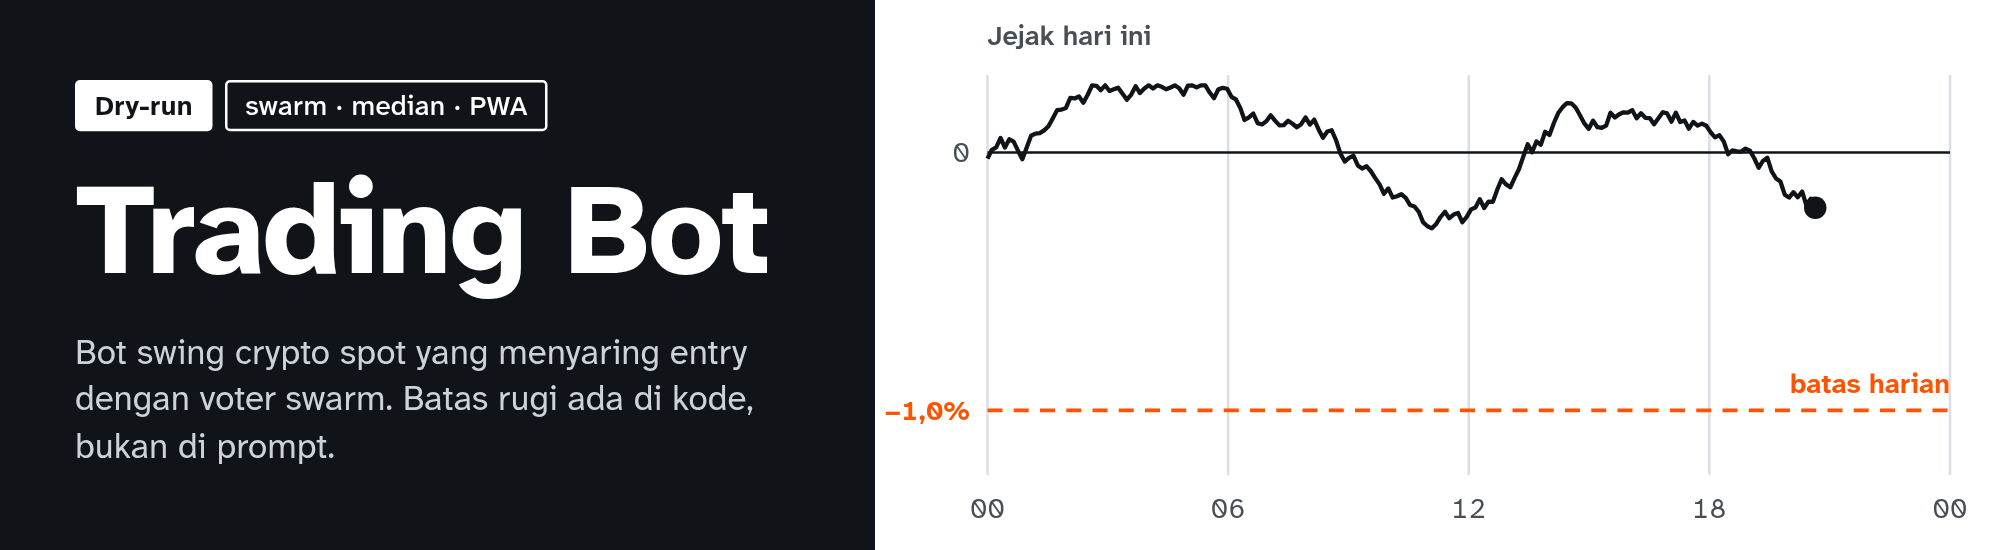
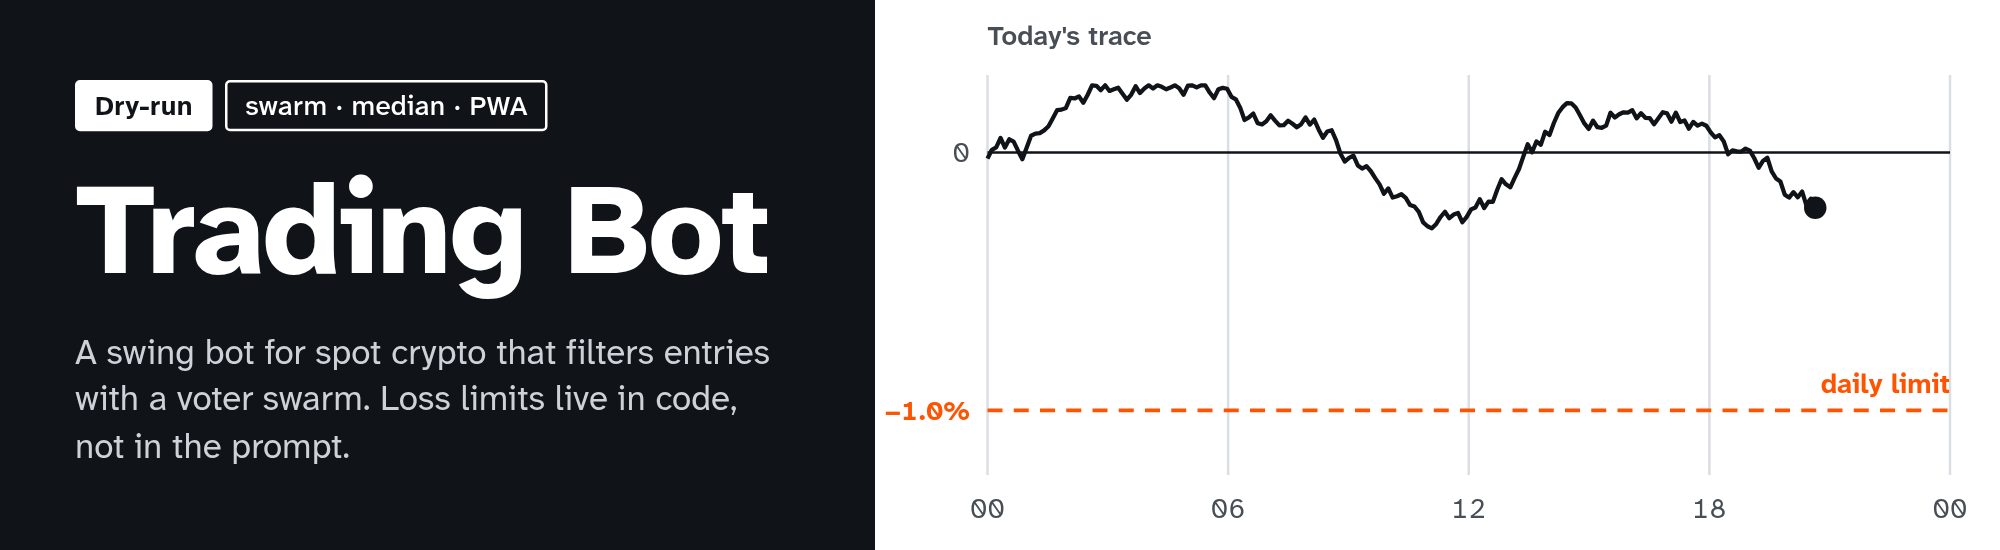
docs: switch README to English and refresh screenshots
The app default language is English, so the screenshots now show the English UI and the banner text is English. Media files are renamed to English names.

diff --git a/README.md b/README.md
@@ -1,74 +1,75 @@
-<p align="center"><img src="docs/media/banner.png" alt="Trading Bot: bot swing crypto spot dengan swarm voter, median, dan panel PWA" width="100%"></p>
+<p align="center"><img src="docs/media/banner.png" alt="Trading Bot: a spot crypto swing bot with a voter swarm, median aggregation and a PWA control panel" width="100%"></p>
 
 <p align="center">
   <img alt="Mode" src="https://img.shields.io/badge/mode-dry--run-1c1f26">
   <img alt="Engine" src="https://img.shields.io/badge/engine-Freqtrade%202026.9-1c1f26">
   <img alt="Python" src="https://img.shields.io/badge/python-3.12%2B-1c1f26">
   <img alt="PWA" src="https://img.shields.io/badge/panel-PWA%20(Svelte)-1c1f26">
-  <img alt="Lisensi" src="https://img.shields.io/badge/lisensi-GPL--3.0-1c1f26">
+  <img alt="License" src="https://img.shields.io/badge/license-GPL--3.0-1c1f26">
 </p>
 
-Bot trading crypto spot yang berjalan 24 jam di PC sendiri, dengan panel kontrol PWA untuk ponsel dan desktop. Strategi aturan swing 1 jam membuat kandidat entry; **swarm** voter (banyak model, satu pertanyaan, hasil digabung dengan **median**) hanya boleh menyaring; batas rugi dan ukuran posisi dijaga **kode**, bukan prompt. English summary: an always-on spot crypto swing bot on Freqtrade, with an LLM voter swarm as an entry filter only, hard risk limits enforced in code, and a PWA control panel. Dry-run only.
+An always-on spot crypto swing bot that runs on your own PC, with a PWA control panel for phone and desktop. A rule-based 1-hour swing strategy proposes entries. A **swarm** of voters (many models, one typed question, answers combined with the **median**) may only filter them. Loss limits and position sizing are enforced by **code**, not by prompts.
 
-> **Status jujur.** Proyek ini belum terbukti menghasilkan uang. Semuanya berjalan dry-run: tidak ada akun exchange, tidak ada key exchange, tidak ada uang sungguhan, dan mode live sengaja tidak bisa menyala di build ini. Backtest 3 tahun pada data Indodax setelah fee 0,2% dan pajak 0,21% per sisi memberi ekspektasi **negatif**: out-of-sample −0,832% per trade (221 trade, CI 95% −1,098% sampai −0,561%). Rinciannya di [docs/stage2-backtest.md](docs/stage2-backtest.md). Bukan nasihat keuangan.
+> **Honest status.** This project has not been shown to make money. Everything runs in dry-run: no exchange account, no exchange keys, no real funds, and live mode is deliberately unable to start in this build. A 3-year backtest on Indodax data, after a 0.2% fee and 0.21% tax per side, gives a **negative** expectancy: out-of-sample -0.832% per trade (221 trades, 95% CI -1.098% to -0.561%). Details in [docs/stage2-backtest.md](docs/stage2-backtest.md). Not financial advice.
 
-## Tampilan
+## Screens
 
-Layar di bawah dari gateway tiruan berdata contoh (penanda "contoh data" tampil di panel), bukan dari lari bot sungguhan.
+The screens below come from the PWA running against a mock gateway with sample data (the panel shows a "sample data" badge), not from a live bot run.
 
 <p align="center">
-  <img src="docs/media/phone-ringkas.png" alt="Ringkas di ponsel: keadaan Aman, jejak rugi hari ini terhadap batas harian, posisi terbuka" width="30%">
-  <img src="docs/media/phone-grafik.png" alt="Grafik kandel per pair dengan penanda entry dan batas" width="30%">
-  <img src="docs/media/phone-kontrol.png" alt="Kontrol: hentikan entry baru, exit paksa, dengan konfirmasi dua langkah" width="30%">
+  <img src="docs/media/phone-summary.png" alt="Summary on a phone: state Safe, today's loss trace against the daily limit, open positions" width="30%">
+  <img src="docs/media/phone-chart.png" alt="Candlestick chart per pair with entry markers and limits" width="30%">
+  <img src="docs/media/phone-control.png" alt="Control: hold new entries, force exit, with two-step confirmation" width="30%">
 </p>
 
 <p align="center">
-  <img src="docs/media/desk-ringkas.png" alt="Desktop, Ringkas" width="49%">
-  <img src="docs/media/desk-grafik.png" alt="Desktop, Grafik live" width="49%">
-  <img src="docs/media/desk-swarm.png" alt="Desktop, keputusan swarm per voter" width="49%">
-  <img src="docs/media/desk-ab.png" alt="Desktop, kurva ekuitas bot A lawan bot B" width="49%">
-  <img src="docs/media/desk-provider.png" alt="Desktop, provider dan key" width="49%">
-  <img src="docs/media/desk-konfigurasi.png" alt="Desktop, editor konfigurasi dengan batas risiko dalam rupiah" width="49%">
+  <img src="docs/media/desk-summary.png" alt="Desktop, Summary" width="49%">
+  <img src="docs/media/desk-chart.png" alt="Desktop, live chart" width="49%">
+  <img src="docs/media/desk-swarm.png" alt="Desktop, per-voter swarm decision" width="49%">
+  <img src="docs/media/desk-ab.png" alt="Desktop, equity curves of bot A versus bot B" width="49%">
+  <img src="docs/media/desk-providers.png" alt="Desktop, providers and keys" width="49%">
+  <img src="docs/media/desk-config.png" alt="Desktop, configuration editor with risk limits in rupiah" width="49%">
 </p>
 
-Arah visualnya ditulis di [PRODUCT.md](PRODUCT.md) dan [DESIGN.md](DESIGN.md): satu jawaban besar yang terbaca dalam dua detik (Aman, Ditahan, Berhenti), warna sinyal hangat hanya untuk risiko, untung dan rugi selalu berpenanda plus atau minus dan arah, bukan sekadar merah dan hijau.
+The visual direction is written down in [PRODUCT.md](PRODUCT.md) and [DESIGN.md](DESIGN.md): one large answer readable in two seconds (Safe, Held, Stopped), a warm signal colour reserved for risk, and gains and losses always marked with a sign and a direction rather than only red and green.
 
-## Cara kerja
+## How it works
 
 ```mermaid
 flowchart LR
-    S[Strategi swing 1 jam\nEMA 20/50 + RSI] --> C[Kandidat entry]
-    C --> R{Lapisan risiko\nkode deterministik}
-    R -- lolos --> W[Swarm voter\nmedian + sebaran + kuorum]
-    W -- bayangan: hanya dicatat --> O[Order dry-run\nFreqtrade]
-    R -- batas terlewati --> X[Entry baru ditahan]
+    S[1h swing strategy\nEMA 20/50 + RSI] --> C[Entry candidate]
+    C --> R{Risk layer\ndeterministic code}
+    R -- passes --> W[Voter swarm\nmedian + spread + quorum]
+    W -- shadow: recorded only --> O[Dry-run order\nFreqtrade]
+    R -- limit crossed --> X[New entries held]
     O --> G[Gateway]
     W --> G
-    G --> P[PWA\nponsel dan desktop]
+    G --> P[PWA\nphone and desktop]
 ```
 
-1. **Engine**: Freqtrade 2026.9 sebagai git submodule di `vendor/freqtrade` (tidak dimodifikasi). Strategi, konfigurasi, dan data pengguna ada di luar vendor.
-2. **Lapisan risiko** (`engine/risk.py`): risiko per trade, batas rugi harian, batas drawdown total, maksimal posisi, kill switch. Tidak melewati AI. Menaikkan batas atau pindah mode butuh konfirmasi dua langkah; menurunkannya langsung.
-3. **Swarm** (`swarm/tb_swarm`): voter dari banyak vendor menjawab pertanyaan bertipe yang sama dengan urutan opsi diacak. Agregasi memakai median, sebaran, dan kuorum; kurang dari kuorum berarti gagal tertutup. Adapter: System One wire (`/v1/systemone`), decisions API OpenRouter dan OpenAI, serta LLM biasa dengan structured output. Menambah voter cukup menambah satu blok konfigurasi. Mode `veto` ditolak skema sampai gerbang adopsinya lolos, jadi saat ini swarm hanya **bayangan**: mencatat apa yang akan diputuskan, tanpa memengaruhi order.
-4. **Gateway** (`gateway/`): satu-satunya pintu PWA ke bot. Autentikasi sesi, endpoint baca, feed WebSocket, kontrol dua langkah dengan `Idempotency-Key` dan log audit, Web Push. API Freqtrade tidak pernah dibuka ke jaringan.
-5. **Agen analis** (deepagents): laporan harian dan tanya-jawab dengan tool baca saja. Tidak ada tool yang bisa membuat order atau mengubah konfigurasi.
-6. **PWA** (`pwa/`, Svelte + Vite): panel buatan sendiri, bukan FreqUI.
+1. **Engine**: Freqtrade 2026.9 as a git submodule in `vendor/freqtrade` (unmodified). Strategy, configuration and user data live outside the vendor tree.
+2. **Risk layer** (`engine/risk.py`): risk per trade, daily loss limit, total drawdown limit, maximum open positions, kill switch. It never goes through an AI. Raising a limit or switching mode takes a two-step confirmation; lowering a limit applies immediately.
+3. **Swarm** (`swarm/tb_swarm`): voters from several vendors answer the same typed question with the option order shuffled. Aggregation uses the median, the spread and a quorum; below quorum the entry fails closed. Adapters: the System One wire (`/v1/systemone`), the OpenRouter and OpenAI decisions APIs, and ordinary LLMs with structured output. Adding a voter is one block of configuration. `veto` mode is rejected by the schema until its adoption gate passes, so the swarm is **shadow only** today: it records what it would decide and never affects an order.
+4. **Gateway** (`gateway/`): the only door between the PWA and the bot. Session auth, read endpoints, a WebSocket feed, two-step controls with an `Idempotency-Key` and an audit log, Web Push. The Freqtrade API is never exposed to the network.
+5. **Analyst agent** (deepagents): a daily report and Q&A with read-only tools. No tool can place an order or change configuration.
+6. **PWA** (`pwa/`, Svelte + Vite): a purpose-built panel, not FreqUI.
 
-## Fitur
+## Features
 
-- Keadaan Aman, Ditahan, Berhenti dengan meter rugi harian dan drawdown total terhadap batas, penanda mode dry-run atau live, dan usia data.
-- Grafik kandel live per pair dengan penanda entry dan exit, feed aksi waktu nyata, posisi dan order, kesehatan mesin dan provider.
-- Keputusan swarm per voter (jawaban, median, sebaran, kuorum) beserta hasil sesudahnya: apakah entry yang akan dilewati ternyata rugi.
-- Bot A (aturan saja) lawan bot B (aturan + swarm bayangan) dengan kurva ekuitas bertumpuk.
-- Kontrol: jeda, hentikan entry, exit paksa, kunci pair, blacklist, dengan konfirmasi dua langkah yang menyebut konsekuensinya dalam rupiah.
-- Editor konfigurasi tervalidasi skema, catatan perubahan, registri provider dan voter, uji koneksi provider. Key hanya bisa dimasukkan dari mesin bot sendiri dan tidak pernah dikembalikan utuh.
-- Analitik: what-if konfigurasi, papan skor voter, uji stres, ekspor CSV, backtest dari UI, tampilan portofolio.
-- Mesin waktu (geser ke keputusan lampau), lapisan berita dan Fear and Greed, tampilan terakhir saat offline, kanal Telegram opsional, dua bahasa (Indonesia dan Inggris).
-- Notifikasi Web Push: fill, batas terlewati, kill switch, heartbeat hilang, kuorum gagal, ringkasan harian.
+- A Safe, Held or Stopped state with meters for the daily loss and the total drawdown against their limits, a dry-run or live badge, and the age of the data.
+- Live candlestick chart per pair with entry and exit markers, a real-time activity feed, positions and orders, engine and provider health.
+- Per-voter swarm decisions (answer, median, spread, quorum) with the outcome afterwards: did an entry that would have been skipped turn out to lose?
+- Bot A (rules only) against bot B (rules plus shadow swarm) with stacked equity curves.
+- Controls: pause, hold new entries, force exit, pair locks, blacklist, each with a two-step confirmation that states the consequence in rupiah.
+- A schema-validated configuration editor with a change log, provider and voter registry, and a connection test per provider. Keys can only be entered from the bot's own machine and are never returned in full.
+- Analytics: configuration what-if, voter scoreboard, stress test, CSV export, backtest from the UI, portfolio view.
+- Time machine (step back through past decisions), news and Fear and Greed layer, last view available offline, an optional Telegram channel.
+- Web Push notifications: fills, limit crossed, kill switch, heartbeat lost, quorum failed, daily summary.
+- Languages: English (default) and Indonesian, with more addable. See [docs/i18n.md](docs/i18n.md).
 
-## Mulai cepat
+## Quick start
 
-Mencoba PWA tanpa bot, dengan gateway tiruan:
+Try the PWA without a bot, against the mock gateway:
 
 ```bash
 git clone --recurse-submodules https://github.com/tickernelz/trading-bot.git
@@ -78,7 +79,7 @@ npm run mock-gateway &
 npm run build && npm run preview
 ```
 
-Buka http://127.0.0.1:4173, kata sandi gateway tiruan `contoh`. Membangun dan menjalankan dry-run sungguhan (Docker):
+Open http://127.0.0.1:4173. The mock gateway password is `example`. To build and run the real dry-run (Docker):
 
 ```bash
 cp .env.example .env
@@ -88,46 +89,46 @@ docker compose build bot
 docker compose up -d bot
 ```
 
-Isi variabel di `.env` dulu. Langkah lengkap, susunan dua bot dengan swarm bayangan, gateway, dan batas CPU ada di [docs/operations.md](docs/operations.md).
+Fill in the variables in `.env` first. The full steps, the two-bot layout with the shadow swarm, the gateway and the CPU limits are in [docs/operations.md](docs/operations.md).
 
-## Konfigurasi
+## Configuration
 
-Satu berkas YAML, divalidasi skema saat start; konfigurasi salah berarti bot tidak start, bukan jalan dengan tebakan. Contoh lengkap di [config/config.example.yaml](config/config.example.yaml). Batas bawaan dan semuanya bisa diubah:
+One YAML file, validated against a schema at start. A bad configuration means the bot refuses to start instead of running on guesses. A full example is in [config/config.example.yaml](config/config.example.yaml). Defaults, all changeable:
 
-| Pengaturan | Bawaan |
+| Setting | Default |
 | --- | --- |
-| Modal awal | Rp 2.000.000, profit dikomposisi |
-| Rugi harian maksimal | 1,0% |
-| Drawdown total maksimal | 10,0% |
-| Risiko per trade | 0,5% |
-| Posisi terbuka maksimal | 3, spot saja, tanpa leverage |
-| Mode swarm | bayangan |
-| Biaya compute LLM | dicatat, tanpa batas |
+| Starting capital | Rp 2,000,000, profits compounded |
+| Maximum daily loss | 1.0% |
+| Maximum total drawdown | 10.0% |
+| Risk per trade | 0.5% |
+| Maximum open positions | 3, spot only, no leverage |
+| Swarm mode | shadow |
+| LLM compute cost | recorded, not limited |
 
-API key lewat variabel lingkungan (`api_key_env`) atau langsung di `config/config.yaml`. Keduanya ada di `.gitignore`; berkas config menyimpan key sebagai teks biasa di disk, jadi anggap bocor bila berkas itu tersalin keluar.
+API keys come from environment variables (`api_key_env`) or are written directly into `config/config.yaml`. Both are git-ignored. A key in the config file is stored as plain text on disk, so treat it as leaked if that file ever leaves the machine.
 
-## Batas yang perlu diketahui
+## Limits you should know about
 
-- Indodax tidak didukung resmi oleh Freqtrade 2026.9; data OHLCV terambil, tetapi jalur order live belum pernah dijalankan. Karena itu mode live tidak bisa menyala di build ini, dan stop loss berjalan di sisi bot (PC harus menyala).
-- Pajak 0,21% per sisi berasal dari sumber sekunder dan belum diverifikasi dari dokumen resmi.
-- Swarm diuji sebagai penyaring yang diukur, bukan sumber profit yang diasumsikan. Bukti ensemble menaikkan profit trading belum ditemukan; yang ada untuk prediksi peristiwa, bukan harga ([docs/research-swarm-pwa.md](docs/research-swarm-pwa.md)).
-- Selama pengujian semua voter memakai model yang sama, jadi kesalahan mereka berkorelasi. Nilai swarm baru bisa diukur dengan voter lintas vendor di forward test.
-- Uji mesin 7 hari non-stop pada aplikasi penuh sedang berjalan; hasilnya belum ada.
+- Indodax is not officially supported by Freqtrade 2026.9. OHLCV data works, but the live order path has never been run. For that reason live mode cannot start in this build, and the stop loss runs on the bot side, so the PC must stay on.
+- The 0.21% tax per side comes from a secondary source and has not been checked against an official document.
+- The swarm is built as a filter that gets measured, not as an assumed source of profit. Evidence that ensembles raise trading profit has not been found; what exists is for event forecasting, not prices ([docs/research-swarm-pwa.md](docs/research-swarm-pwa.md)).
+- During testing every voter used the same model, so their errors are correlated. The swarm's value can only be measured with voters from several vendors in a forward test.
+- A 7-day non-stop engine test on the complete application is in progress; there are no results yet.
 
-## Struktur
+## Layout
 
-| Jalur | Isi |
+| Path | Contents |
 | --- | --- |
-| `engine/` | launcher, skema konfigurasi, lapisan risiko, strategi, layanan bayangan, penyimpanan keputusan |
-| `swarm/` | paket `tb_swarm`: voter, adapter, agregasi, agen analis |
-| `gateway/`, `analytics/` | gateway PWA dan rute analitik |
-| `pwa/` | panel PWA dan gateway tiruan |
-| `scripts/` | menjalankan seluruh mesin sebagai unit systemd, ukur, rekam fixture, backtest |
-| `docker/`, `docker-compose.yml` | image turunan Freqtrade |
-| `docs/` | [plan](docs/plan.md), [kontrak gateway](docs/gateway-api.md), [operasi](docs/operations.md), [riset](docs/research-swarm-pwa.md), temuan per tahap |
-| `vendor/freqtrade` | submodule Freqtrade, terkunci di tag 2026.9 |
+| `engine/` | launcher, configuration schema, risk layer, strategy, shadow service, decision store |
+| `swarm/` | the `tb_swarm` package: voters, adapters, aggregation, analyst agent |
+| `gateway/`, `analytics/` | the PWA gateway and the analytics routes |
+| `pwa/` | the PWA panel and the mock gateway |
+| `scripts/` | run the whole stack as systemd units, measure, record fixtures, backtest |
+| `docker/`, `docker-compose.yml` | the image derived from Freqtrade |
+| `docs/` | [plan](docs/plan.md), [gateway contract](docs/gateway-api.md), [operations](docs/operations.md), [research](docs/research-swarm-pwa.md), [languages](docs/i18n.md), per-stage findings |
+| `vendor/freqtrade` | the Freqtrade submodule, pinned to tag 2026.9 |
 
-## Tes
+## Tests
 
 ```bash
 docker compose --profile test build tests
@@ -135,8 +136,8 @@ docker compose --profile test run --rm tests
 cd pwa && npm test
 ```
 
-Tes engine berjalan di dalam image turunan Freqtrade supaya versi Freqtrade, ccxt, dan pandas sama dengan mesin. Hook git (`git config core.hooksPath .githooks`) menolak komentar di kode kita dan commit yang bukan Conventional Commits.
+The engine tests run inside the Freqtrade-derived image so the Freqtrade, ccxt and pandas versions match the engine. The git hooks (`git config core.hooksPath .githooks`) reject comments in our code and commits that are not Conventional Commits.
 
-## Lisensi
+## License
 
-[GPL-3.0](LICENSE), sama dengan Freqtrade: strategi dan launcher mengimpor Freqtrade dan image Docker diturunkan darinya. Perangkat lunak ini disediakan apa adanya; trading menanggung risiko kehilangan seluruh modal.
+[GPL-3.0](LICENSE), the same as Freqtrade: the strategy and launcher import Freqtrade and the Docker image derives from it. The software is provided as is, and trading risks losing all of your capital.
